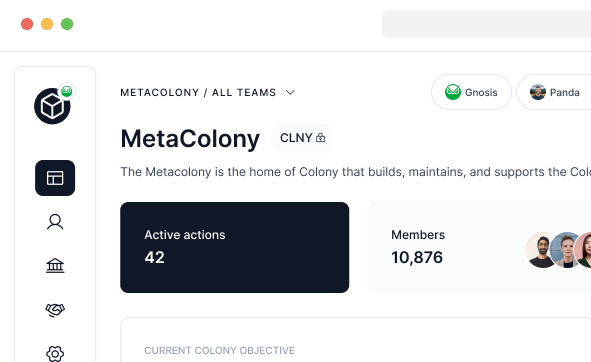
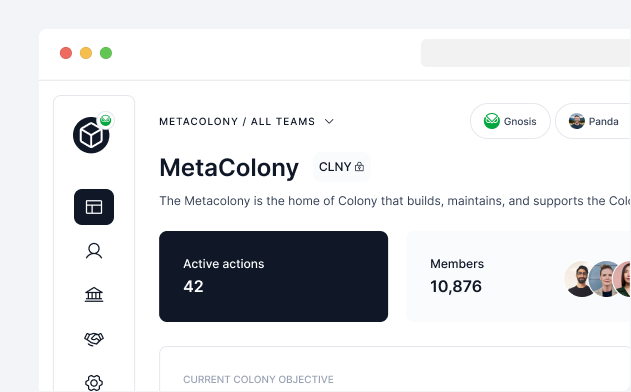
Fixed styles for images in landing page

diff --git a/src/components/frame/LandingPage/LandingPage.tsx b/src/components/frame/LandingPage/LandingPage.tsx
@@ -87,7 +87,7 @@ const MSG = defineMessages({
 });
 
 const LandingPage = () => {
-  const [hoveredItem, setHoveredItem] = useState<number>(1);
+  const [, setHoveredItem] = useState<number>(1);
   const navigate = useNavigate();
   const { user, connectWallet, wallet, userLoading } = useAppContext();
   const onUserLogin = () => {
@@ -147,7 +147,7 @@ const LandingPage = () => {
           <FormattedMessage {...MSG.headerDescription} />
         </p>
       </div>
-      <div className="w-full flex justify-center gap-4  max-w-[1286px]">
+      <div className="w-full flex justify-center gap-4">
         <div className="w-1/2 flex flex-col gap-4">
           {landingPageItems.map((item, index) => (
             <LandingPageItem
@@ -160,17 +160,13 @@ const LandingPage = () => {
         </div>
         <div
           className={clsx(
-            'flex justify-center w-1/2 bg-gray-100 rounded-lg max-h-[395px] border border-gray-200 shadow-sm',
-            { 'pl-9 pt-7': hoveredItem === 0 },
+            'flex justify-center w-1/2 bg-gray-100 rounded-lg max-h-[392px] border border-gray-200 shadow-sm',
           )}
         >
           <img
             src={landingPageItems[1].imgSrc} // @TODO: Change to hoveredItem once we enable the create colony landing page item
             alt=""
-            className={clsx('object-cover relative', {
-              'rounded-br-[10px] rounded-tl-[10px]': hoveredItem === 0,
-              'left-3 top-7': hoveredItem === 1,
-            })}
+            className="w-full h-full object-cover"
           />
         </div>
       </div>

diff --git a/src/components/frame/LandingPage/LandingPageItem.tsx b/src/components/frame/LandingPage/LandingPageItem.tsx
@@ -35,8 +35,8 @@ const LandingPageItem = ({
         'group flex items-center justify-between px-6 py-5 rounded-lg border border-gray-200',
         { 'hover:border-blue-400': !disabled },
       )}
-      onMouseEnter={() => onHover(disabled ? 1 : itemIndex)}
-      onMouseLeave={() => onHover(1)}
+      onMouseEnter={() => onHover(disabled ? 0 : itemIndex)}
+      onMouseLeave={() => onHover(0)}
     >
       <div className="flex items-center">
         <div

diff --git a/src/routes/LandingPageRoute/LandingPageLayout.tsx b/src/routes/LandingPageRoute/LandingPageLayout.tsx
@@ -22,7 +22,7 @@ const LandingPageLayout: FC<PropsWithChildren> = ({ children }) => {
         <div className="hidden">
           <Wallet />
         </div>
-        <main className="w-full pr-4 flex flex-col items-center justify-center max-w-[1278px]">
+        <main className="w-full pr-4 flex flex-col items-center justify-center max-w-[1298px]">
           {children}
         </main>
       </div>
